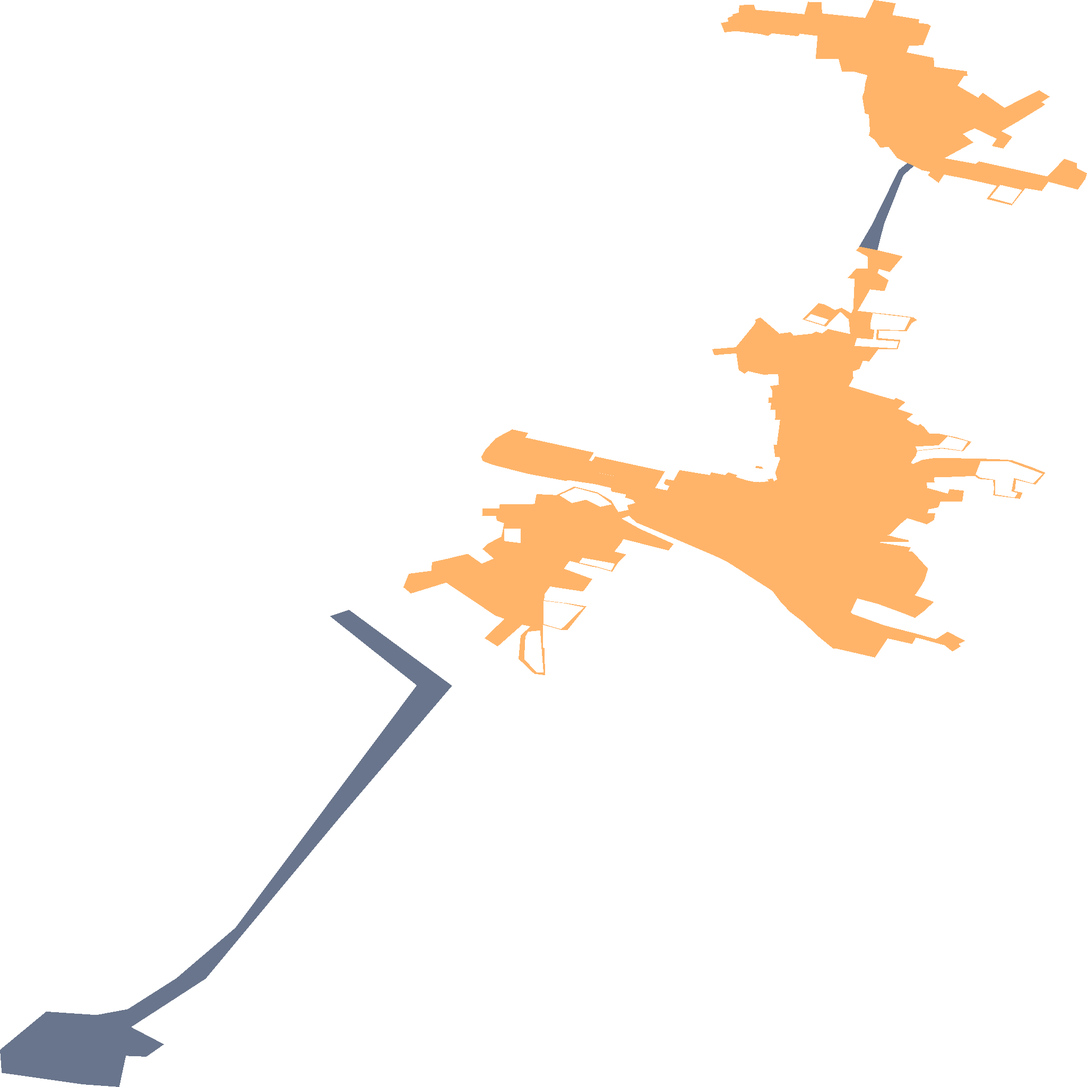
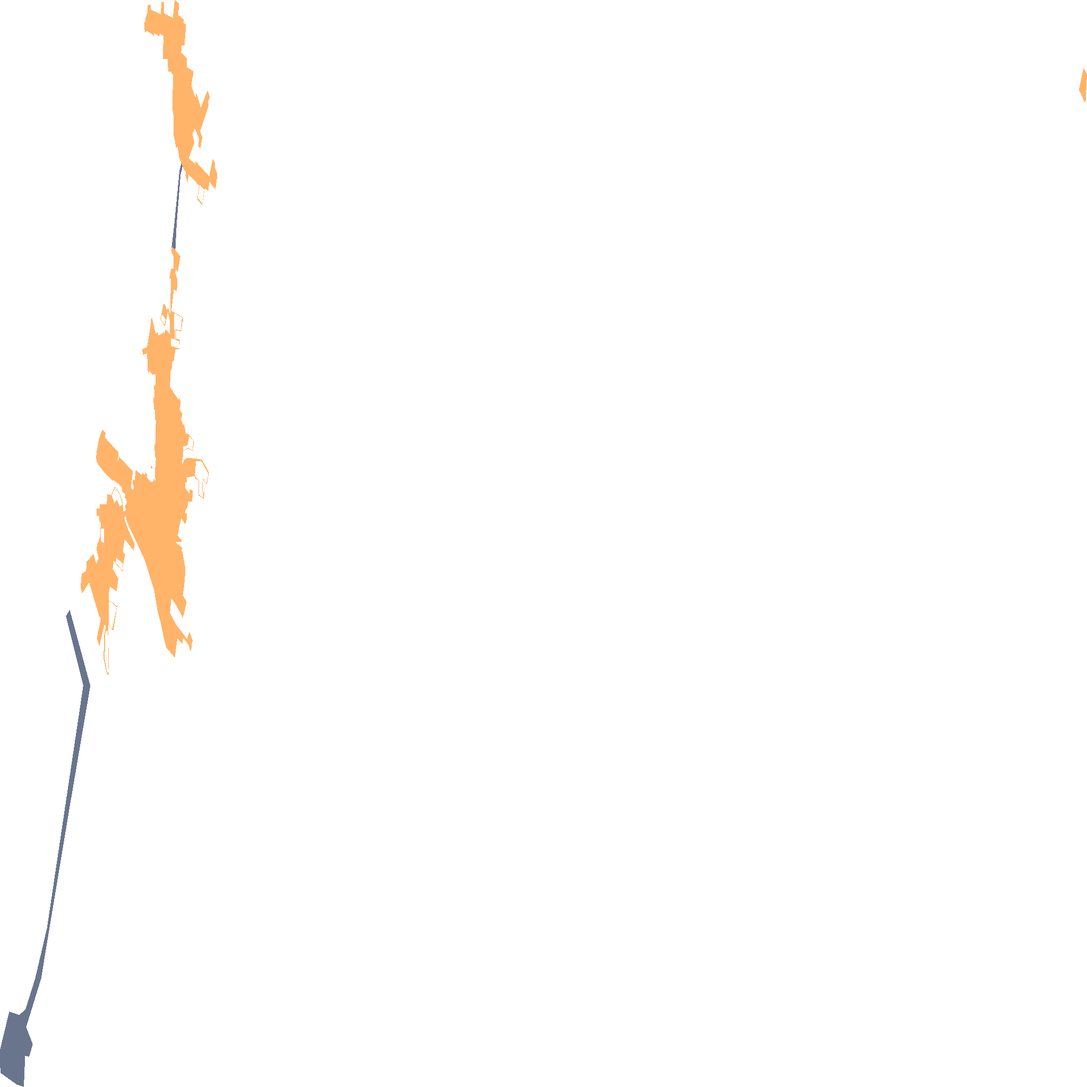
Karte sp_472

diff --git a/sp_472.html b/sp_472.html
@@ -132,7 +132,7 @@
         <div><span style="display:inline-block;width:20px; height:10px; background:#00143C; margin-right:5px;"></span>Ausbauphase 2: Interessenbekundung möglich</div>
     </div>
     <script>
-    const bounds = [[51.914985495, 11.398748835], [51.963987441, 11.443236615]];
+    const bounds = [[51.914985495, 11.398748835], [51.963987441, 11.621382979]];
     const map = L.map('map', {zoomControl: false});
       map.fitBounds(bounds);
         const maptiler = L.tileLayer('https://api.maptiler.com/maps/basic/{z}/{x}/{y}.png?key=UrGMdlREnrfymuiwCa7d',
@@ -141,7 +141,7 @@
         L.control.zoom({
             position: 'topleft'
         }).addTo(map);
-        const geoJsonData = {"type": "FeatureCollection", "features": [{"type": "Feature", "geometry": {"type": "MultiPolygon", "coordinates": [[[[11.42965127, 51.942900249], [11.429695394, 51.94298907], [11.429910986, 51.942953065], [11.429997529, 51.942857774], [11.429941825, 51.942847514], [11.42965127, 51.942900249]]]]}, "properties": {"dgn_phase": 1}}, {"type": "Feature", "geometry": {"type": "MultiPolygon", "coordinates": [[[[11.423100816, 51.943412611], [11.425961326, 51.942731767], [11.425559443, 51.941988716], [11.425251485, 51.94205569], [11.424488356, 51.942221656], [11.424559931, 51.942385061], [11.422724052, 51.942783168], [11.422970212, 51.943197381], [11.423022349, 51.943252811], [11.423100816, 51.943412611]]]]}, "properties": {"dgn_phase": 1}}, {"type": "Feature", "geometry": {"type": "MultiPolygon", "coordinates": [[[[11.438212507, 51.960790496], [11.438207301, 51.960565548], [11.437938208, 51.96012534], [11.438784526, 51.959584119], [11.4389672, 51.9598113], [11.4395261, 51.9593833], [11.439859, 51.9591283], [11.4412775, 51.9599188], [11.4417127, 51.9596259], [11.441374701, 51.9593822], [11.4415232, 51.95928], [11.4414147, 51.9591898], [11.440392895, 51.958499077], [11.439732406, 51.958075644], [11.440180616, 51.957815329], [11.440013758, 51.957580749], [11.439808863, 51.957290693], [11.439338914, 51.957408635], [11.43954545, 51.957728953], [11.438639677, 51.958206493], [11.438156063, 51.95794385], [11.43858395, 51.957567106], [11.437396503, 51.956855947], [11.438671559, 51.956600148], [11.438817606, 51.956709649], [11.441610879, 51.956032826], [11.44231256, 51.956827601], [11.442827243, 51.956630815], [11.442815018, 51.956406013], [11.443236615, 51.956172206], [11.443167341, 51.955920684], [11.442860891, 51.955441935], [11.44166093, 51.955793749], [11.441386246, 51.955379633], [11.440713408, 51.955501789], [11.440160122, 51.954729896], [11.439124903, 51.955015365], [11.439549599, 51.95561248], [11.4382686, 51.9559333], [11.4373842, 51.9561171], [11.4371629, 51.9557403], [11.4369442, 51.955927], [11.4367267, 51.9560863], [11.4368216, 51.9562398], [11.4364696, 51.9563188], [11.4361477, 51.9564994], [11.435885774, 51.956639312], [11.435470381, 51.9568612], [11.435119479, 51.95736618], [11.434774265, 51.957330044], [11.434548102, 51.957680961], [11.434306739, 51.957880713], [11.434352269, 51.958074531], [11.43430883, 51.958824171], [11.434150229, 51.958870731], [11.434037278, 51.959630464], [11.434118968, 51.959845174], [11.434160344, 51.960220853], [11.434250706, 51.960595517], [11.433664555, 51.960767776], [11.433208053, 51.960746919], [11.433073111, 51.961324853], [11.432131113, 51.961332628], [11.432212414, 51.962393094], [11.432008224, 51.962394712], [11.431486874, 51.962470404], [11.431410572, 51.962355125], [11.430338705, 51.962485464], [11.430185194, 51.962367451], [11.429846728, 51.962456671], [11.428907982, 51.962580343], [11.428945046, 51.962730094], [11.428871392, 51.962752712], [11.42893269, 51.962914558], [11.428743415, 51.963275016], [11.428724323, 51.963336779], [11.428980939, 51.963418042], [11.429006174, 51.963755103], [11.429609671, 51.963772942], [11.429674491, 51.963546549], [11.430566769, 51.963463206], [11.431667354, 51.963345255], [11.431816756, 51.963904806], [11.432376393, 51.963888912], [11.432390987, 51.963382237], [11.434159415, 51.963176883], [11.434518629, 51.963987441], [11.435171068, 51.963875425], [11.435407153, 51.96383489], [11.435273579, 51.963309641], [11.43636969, 51.963109508], [11.436340018, 51.962949986], [11.436709046, 51.962907722], [11.43684385, 51.962809715], [11.436530778, 51.961946273], [11.43595553, 51.961932213], [11.435854906, 51.961627009], [11.436962389, 51.961379027], [11.436989326, 51.960971638], [11.438212507, 51.960790496]], [[11.439687437, 51.955652457], [11.439261036, 51.955077945], [11.440164004, 51.95480228], [11.440582045, 51.955425744], [11.439687437, 51.955652457]]]]}, "properties": {"dgn_phase": 1}}, {"type": "Feature", "geometry": {"type": "MultiPolygon", "coordinates": [[[[11.413032971, 51.936497717], [11.417251482, 51.93307279], [11.412617035, 51.927086188], [11.407169732, 51.919871052], [11.404112991, 51.917685963], [11.405461187, 51.916909206], [11.404736501, 51.916351105], [11.403901213, 51.916390212], [11.40363018, 51.914985495], [11.402139968, 51.915104073], [11.398818254, 51.915623575], [11.398748835, 51.916660645], [11.400640327, 51.918384881], [11.402699007, 51.918232677], [11.403977947, 51.918493009], [11.405977235, 51.919895446], [11.408379181, 51.922159999], [11.415808803, 51.933091403], [11.412251117, 51.936210764], [11.413032971, 51.936497717]]]]}, "properties": {"dgn_phase": 2}}, {"type": "Feature", "geometry": {"type": "MultiPolygon", "coordinates": [[[[11.43571239, 51.94543221], [11.436036894, 51.945307554], [11.435881696, 51.945159707], [11.435559544, 51.945287261], [11.43571239, 51.94543221]]]]}, "properties": {"dgn_phase": 1}}, {"type": "Feature", "geometry": {"type": "MultiPolygon", "coordinates": [[[[11.434659392, 51.952711049], [11.435698316, 51.95243301], [11.435166044, 51.951723415], [11.434721799, 51.951862447], [11.434659134, 51.951675476], [11.435114526, 51.951354438], [11.434951387, 51.950864423], [11.434356564, 51.950941424], [11.433889682, 51.95005116], [11.433672931, 51.950072782], [11.433701135, 51.950864319], [11.433731343, 51.951422005], [11.433438547, 51.951447536], [11.433798613, 51.951888036], [11.434261084, 51.951891455], [11.434262954, 51.952410774], [11.434133944, 51.952490995], [11.43378912, 51.952697468], [11.433877092, 51.952803405], [11.433914208, 51.952873586], [11.434659392, 51.952711049]]]]}, "properties": {"dgn_phase": 1}}, {"type": "Feature", "geometry": {"type": "MultiPolygon", "coordinates": [[[[11.428743415, 51.963275016], [11.42893269, 51.962914558], [11.428871392, 51.962752712], [11.428945046, 51.962730094], [11.428907982, 51.962580343], [11.42887283, 51.962584974], [11.428400444, 51.962529802], [11.428254927, 51.962948291], [11.428549241, 51.96301417], [11.428534475, 51.963178397], [11.428743415, 51.963275016]]]]}, "properties": {"dgn_phase": 1}}, {"type": "Feature", "geometry": {"type": "MultiPolygon", "coordinates": [[[[11.4361477, 51.9564994], [11.435725969, 51.956092292], [11.434934915, 51.953904635], [11.434659392, 51.952711049], [11.433914208, 51.952873586], [11.434427278, 51.953843726], [11.435528184, 51.956320359], [11.435885774, 51.956639312], [11.4361477, 51.9564994]]]]}, "properties": {"dgn_phase": 2}}, {"type": "Feature", "geometry": {"type": "MultiPolygon", "coordinates": [[[[11.438331032, 51.960792308], [11.438341998, 51.960564145], [11.438207301, 51.960565548], [11.438212507, 51.960790496], [11.438331032, 51.960792308]]]]}, "properties": {"dgn_phase": 1}}, {"type": "Feature", "geometry": {"type": "MultiPolygon", "coordinates": [[[[11.43321146, 51.93633451], [11.433303429, 51.93641312], [11.434881533, 51.935795836], [11.437057437, 51.935143747], [11.437540274, 51.935465926], [11.438129712, 51.935108952], [11.437931142, 51.9349891], [11.438025202, 51.93484734], [11.437751385, 51.934660474], [11.43740232, 51.93492853], [11.436200453, 51.935288084], [11.436079222, 51.935032916], [11.435059201, 51.93526231], [11.434499026, 51.934411747], [11.432856126, 51.934793213], [11.431928075, 51.935772639], [11.432358656, 51.936298427], [11.433069326, 51.936017492], [11.43321146, 51.93633451]]]]}, "properties": {"dgn_phase": 1}}, {"type": "Feature", "geometry": {"type": "MultiPolygon", "coordinates": [[[[11.43655422, 51.942154815], [11.436521299, 51.941927229], [11.437377239, 51.941747479], [11.437612387, 51.941689496], [11.437706446, 51.941877943], [11.438129712, 51.941814161], [11.438059167, 51.941443062], [11.437198526, 51.941428566], [11.437080952, 51.941173435], [11.436714122, 51.94111545], [11.436495433, 51.940870463], [11.436925754, 51.940800881], [11.43693516, 51.940580537], [11.4366812, 51.940438472], [11.43571239, 51.940711004], [11.434903482, 51.939844116], [11.435641846, 51.939667257], [11.435670064, 51.939586075], [11.434748283, 51.939673055], [11.434611897, 51.939530988], [11.435900509, 51.939290341], [11.43567947, 51.938780052], [11.435157441, 51.93888153], [11.434941104, 51.938379934], [11.434212146, 51.938527804], [11.434085166, 51.938368336], [11.433680711, 51.938652479], [11.43297997, 51.93911638], [11.434024027, 51.939635364], [11.434419077, 51.939820921], [11.434602492, 51.940418178], [11.435938133, 51.942082335], [11.43655422, 51.942154815]]]]}, "properties": {"dgn_phase": 1}}, {"type": "Feature", "geometry": {"type": "MultiPolygon", "coordinates": [[[[11.434462707, 51.94989937], [11.434469864, 51.949871764], [11.434385409, 51.949493766], [11.434374485, 51.949148986], [11.434536107, 51.949126476], [11.434481267, 51.94868677], [11.4338218, 51.948749946], [11.433671213, 51.949570147], [11.433601882, 51.949709811], [11.433766004, 51.949836007], [11.433847844, 51.949973678], [11.434462707, 51.94989937]]]]}, "properties": {"dgn_phase": 1}}, {"type": "Feature", "geometry": {"type": "MultiPolygon", "coordinates": [[[[11.421520999, 51.9416681], [11.421510888, 51.941261598], [11.420630836, 51.941269253], [11.420707042, 51.941712077], [11.421103815, 51.94169097], [11.421520999, 51.9416681]]]]}, "properties": {"dgn_phase": 1}}, {"type": "Feature", "geometry": {"type": "MultiPolygon", "coordinates": [[[[11.420630836, 51.941269253], [11.421510888, 51.941261598], [11.421520999, 51.9416681], [11.422254799, 51.9420541], [11.423205199, 51.941787796], [11.423771594, 51.94141867], [11.42405281, 51.940903619], [11.424479726, 51.941006947], [11.424411976, 51.941209609], [11.424760197, 51.941312609], [11.42464096, 51.941452175], [11.424339696, 51.941558765], [11.424361131, 51.941699104], [11.423771855, 51.94182754], [11.423743296, 51.941995841], [11.423061482, 51.942171476], [11.422611686, 51.942241946], [11.421997271, 51.942345183], [11.421923803, 51.942305074], [11.420344744, 51.942628919], [11.419868684, 51.942763576], [11.418889383, 51.943043237], [11.418513429, 51.943197866], [11.41844046, 51.943387889], [11.418608077, 51.943705179], [11.419027754, 51.944215604], [11.41940895, 51.944452603], [11.41971508, 51.944629729], [11.420364894, 51.9444706], [11.420252772, 51.944262484], [11.423055514, 51.943585526], [11.422850539, 51.94321882], [11.422970212, 51.943197381], [11.422724052, 51.942783168], [11.423747029, 51.942558608], [11.424559931, 51.942385061], [11.424488356, 51.942221656], [11.425251485, 51.94205569], [11.425559443, 51.941988716], [11.425582758, 51.941983646], [11.425923263, 51.941906848], [11.426060574, 51.941881981], [11.426148628, 51.942082155], [11.425977023, 51.942132212], [11.425922286, 51.942219034], [11.426002623, 51.942386314], [11.426320313, 51.942327125], [11.426555524, 51.942794808], [11.427805115, 51.942569491], [11.427863295, 51.942693157], [11.428423058, 51.942568369], [11.42855758, 51.94269352], [11.428928913, 51.942564049], [11.428863018, 51.94248094], [11.429311659, 51.942334265], [11.429520276, 51.942281909], [11.429629375, 51.942266497], [11.429854237, 51.942248999], [11.430071419, 51.94227267], [11.430201017, 51.942288356], [11.430161985, 51.942372407], [11.43037271, 51.942423143], [11.430427102, 51.94229348], [11.430554137, 51.942371653], [11.4304844, 51.942657103], [11.430494965, 51.942742577], [11.43058342, 51.943012241], [11.430599809, 51.943083884], [11.430679053, 51.943289656], [11.430648598, 51.943385771], [11.430473687, 51.943374694], [11.430459891, 51.943491505], [11.43040847, 51.943926922], [11.430539456, 51.943931562], [11.430666902, 51.944969483], [11.43067615, 51.945067227], [11.430471817, 51.945061654], [11.430488305, 51.945513035], [11.430274672, 51.945518673], [11.430317125, 51.945827513], [11.43019009, 51.945822791], [11.430207671, 51.946074609], [11.430360164, 51.946073909], [11.43036482, 51.946343133], [11.430262883, 51.946582729], [11.430628565, 51.946641282], [11.430599152, 51.947122992], [11.430136644, 51.947105612], [11.429936656, 51.947107294], [11.429370415, 51.947259766], [11.429225356, 51.947141567], [11.428982644, 51.947305721], [11.42888458, 51.948056942], [11.428355374, 51.948015225], [11.427984671, 51.947973908], [11.427892549, 51.9482488], [11.42886192, 51.948334075], [11.429109642, 51.948665611], [11.42961816, 51.949350447], [11.429680445, 51.949476476], [11.429645629, 51.949565336], [11.429869652, 51.949678231], [11.43064619, 51.948944824], [11.431113476, 51.949013519], [11.431224135, 51.948861883], [11.431726245, 51.948915165], [11.432005665, 51.948953461], [11.432133253, 51.949041414], [11.432397316, 51.948960669], [11.432640555, 51.949153957], [11.43354366, 51.948929622], [11.433484172, 51.949587013], [11.433134774, 51.949939457], [11.43254757, 51.949266056], [11.431586687, 51.949594408], [11.43225595, 51.950319983], [11.432506204, 51.950258498], [11.432920803, 51.950012436], [11.43319167, 51.950112114], [11.433590035, 51.949859041], [11.433672931, 51.950072782], [11.433889682, 51.95005116], [11.433860376, 51.949996888], [11.433847844, 51.949973678], [11.433766004, 51.949836007], [11.433601882, 51.949709811], [11.433671213, 51.949570147], [11.4338218, 51.948749946], [11.433718335, 51.948394849], [11.435434916, 51.948278898], [11.435536029, 51.948599211], [11.434611897, 51.948667332], [11.434630709, 51.949132579], [11.435764123, 51.949100694], [11.436013379, 51.94966739], [11.434469864, 51.949871764], [11.434462707, 51.94989937], [11.435424384, 51.949783142], [11.436145726, 51.949677621], [11.436272013, 51.949558709], [11.436058521, 51.949421124], [11.435858624, 51.949059231], [11.434725339, 51.949093703], [11.434690824, 51.948749198], [11.435601333, 51.948661802], [11.435483286, 51.94823823], [11.434699544, 51.948252], [11.434320668, 51.947694267], [11.434065015, 51.947728935], [11.433930376, 51.947364467], [11.433654507, 51.947245306], [11.433658034, 51.947090986], [11.433674099, 51.946948649], [11.433482152, 51.946573284], [11.434210994, 51.946327901], [11.434561136, 51.946209257], [11.435334364, 51.945965559], [11.43542211, 51.946049436], [11.435800128, 51.945860433], [11.435535701, 51.945586793], [11.435500008, 51.945549582], [11.436113476, 51.945318978], [11.435852951, 51.94508076], [11.436081908, 51.944919324], [11.436317405, 51.944805497], [11.436416293, 51.944875676], [11.436574744, 51.944729166], [11.436783148, 51.944444513], [11.437204267, 51.944429671], [11.437902749, 51.944269523], [11.438505907, 51.944068501], [11.438164197, 51.943648342], [11.437318833, 51.943766239], [11.43687904, 51.943728829], [11.436286951, 51.943659068], [11.436231888, 51.943447201], [11.43606166, 51.943193647], [11.436035654, 51.943115838], [11.436116549, 51.943068868], [11.43648306, 51.943252712], [11.436998239, 51.943342579], [11.438070597, 51.943327245], [11.43936117, 51.943297169], [11.439435923, 51.943295427], [11.440146266, 51.94324704], [11.44098873, 51.942921073], [11.441534798, 51.942676996], [11.441129111, 51.942141416], [11.440334482, 51.942363103], [11.440293894, 51.941943896], [11.440244523, 51.941855402], [11.440599147, 51.941779186], [11.440494876, 51.941500399], [11.439393808, 51.941659574], [11.439437392, 51.941969919], [11.439386473, 51.942345575], [11.438801084, 51.942399026], [11.438647763, 51.942530283], [11.437443837, 51.942478104], [11.43697291, 51.942464446], [11.436996215, 51.942236725], [11.43666812, 51.942226993], [11.436701959, 51.941988036], [11.437530648, 51.941736747], [11.437619744, 51.941941482], [11.438197107, 51.941863415], [11.43813315, 51.941382718], [11.437712246, 51.941387306], [11.437241255, 51.941372274], [11.437151554, 51.941115217], [11.436757041, 51.941031115], [11.436705205, 51.940855906], [11.437023195, 51.940843811], [11.436975998, 51.94054869], [11.43668236, 51.940352321], [11.435886194, 51.940627721], [11.435548835, 51.940323456], [11.435201663, 51.939920234], [11.435056, 51.9398451], [11.435156501, 51.9398406], [11.4354737, 51.9397432], [11.4359028, 51.9396457], [11.4359415, 51.9396186], [11.435936299, 51.9395638], [11.435828499, 51.9395496], [11.4355999, 51.9395467], [11.435403951, 51.939557096], [11.434799181, 51.939556778], [11.434774519, 51.939521421], [11.436024218, 51.939309632], [11.435939002, 51.939135114], [11.43610281, 51.939115196], [11.436733959, 51.938344664], [11.43657549, 51.937805327], [11.436456132, 51.937576428], [11.436192504, 51.937152198], [11.436974059, 51.936855063], [11.43652863, 51.936406367], [11.436195351, 51.936135761], [11.435661901, 51.936365092], [11.43469935, 51.936755482], [11.433833199, 51.937013035], [11.433562729, 51.936379606], [11.433656633, 51.936303295], [11.43493704, 51.935796159], [11.436345563, 51.935392402], [11.437051145, 51.935173964], [11.437532849, 51.935511041], [11.438250087, 51.935096791], [11.437984467, 51.934964574], [11.438067221, 51.934847173], [11.437729469, 51.934617292], [11.437410413, 51.934896589], [11.436494319, 51.935177232], [11.436228423, 51.935245401], [11.436085804, 51.934957074], [11.43507889, 51.935206534], [11.434559998, 51.934346878], [11.433017216, 51.934739618], [11.432839922, 51.934757056], [11.432240909, 51.935298287], [11.431604217, 51.935966996], [11.431088247, 51.936396329], [11.430702689, 51.936847754], [11.430355711, 51.93735347], [11.429222504, 51.938153614], [11.428965384, 51.938343467], [11.428544533, 51.938637235], [11.428168334, 51.938850203], [11.426851787, 51.939475071], [11.425743381, 51.939993719], [11.424795505, 51.940431926], [11.424486716, 51.94073852], [11.424185637, 51.940609756], [11.424944777, 51.940142392], [11.426320871, 51.939463984], [11.426108968, 51.939170878], [11.424256268, 51.93968833], [11.4241864, 51.9395321], [11.423894301, 51.9391261], [11.4243714, 51.9389954], [11.4240517, 51.9386344], [11.4238048, 51.9382109], [11.4232193, 51.9384007], [11.4229986, 51.9384388], [11.422062, 51.9386998], [11.4219376, 51.9385277], [11.421831152, 51.938350049], [11.422991344, 51.937882705], [11.422614999, 51.9373213], [11.421263499, 51.9375477], [11.421029299, 51.9371964], [11.4210229, 51.9369213], [11.421960201, 51.936795], [11.4227501, 51.9366532], [11.4219748, 51.9355891], [11.421754399, 51.9355809], [11.4209748, 51.9358202], [11.420976, 51.9347931], [11.421035399, 51.9347634], [11.4210311, 51.9344231], [11.421068976, 51.93354828], [11.420617796, 51.933609896], [11.419972494, 51.934286983], [11.420055182, 51.935326447], [11.420452332, 51.935750719], [11.420122199, 51.93582637], [11.419115762, 51.934844463], [11.418579066, 51.935221832], [11.419396635, 51.936089188], [11.419025687, 51.936234535], [11.417011434, 51.937724745], [11.415568519, 51.937233156], [11.415258785, 51.937513731], [11.415477406, 51.938121739], [11.416411578, 51.938256805], [11.416424568, 51.938645828], [11.417163145, 51.938826526], [11.417890648, 51.939022138], [11.418464713, 51.938574533], [11.41895665, 51.938809256], [11.418492721, 51.939242359], [11.418707024, 51.939470548], [11.419267401, 51.9397976], [11.4193004, 51.9399353], [11.4193778, 51.9404001], [11.419072899, 51.9405232], [11.419063799, 51.9407387], [11.418483001, 51.9407343], [11.418504299, 51.9410545], [11.419191199, 51.9410598], [11.4192018, 51.941261], [11.420630836, 51.941269253]], [[11.431707819, 51.949593474], [11.432474401, 51.949331142], [11.43266252, 51.94957898], [11.431940615, 51.949831166], [11.431707819, 51.949593474]], [[11.435881696, 51.945159707], [11.436036894, 51.945307554], [11.43571239, 51.94543221], [11.435559544, 51.945287261], [11.435881696, 51.945159707]], [[11.43622031, 51.943858047], [11.436281448, 51.943679754], [11.437318451, 51.943801515], [11.438117955, 51.943673955], [11.438369564, 51.944088521], [11.437539491, 51.944323343], [11.437160902, 51.943911679], [11.43622031, 51.943858047]], [[11.438679959, 51.942607084], [11.438858671, 51.942453429], [11.439488868, 51.942354858], [11.439470056, 51.941699643], [11.44026956, 51.941554683], [11.440401242, 51.941757627], [11.440147283, 51.941844602], [11.440250748, 51.942436033], [11.441022034, 51.942192505], [11.441431191, 51.942624479], [11.440043818, 51.94318401], [11.438886889, 51.943201404], [11.438679959, 51.942607084]], [[11.434602492, 51.940418178], [11.434419077, 51.939820921], [11.434024027, 51.939635364], [11.43297997, 51.93911638], [11.433680711, 51.938652479], [11.434085166, 51.938368336], [11.434212146, 51.938527804], [11.434941104, 51.938379934], [11.435157441, 51.93888153], [11.43567947, 51.938780052], [11.435900509, 51.939290341], [11.434611897, 51.939530988], [11.434748283, 51.939673055], [11.435670064, 51.939586075], [11.435641846, 51.939667257], [11.434903482, 51.939844116], [11.43571239, 51.940711004], [11.4366812, 51.940438472], [11.43693516, 51.940580537], [11.436925754, 51.940800881], [11.436495433, 51.940870463], [11.436714122, 51.94111545], [11.437080952, 51.941173435], [11.437198526, 51.941428566], [11.438059167, 51.941443062], [11.438129712, 51.941814161], [11.437706446, 51.941877943], [11.437612387, 51.941689496], [11.437377239, 51.941747479], [11.436521299, 51.941927229], [11.43655422, 51.942154815], [11.435938133, 51.942082335], [11.434602492, 51.940418178]], [[11.42164113, 51.941663402], [11.422153753, 51.941306799], [11.422741623, 51.941460458], [11.423310682, 51.941138644], [11.423804493, 51.941251713], [11.423216623, 51.941730085], [11.422304248, 51.941999709], [11.42164113, 51.941663402]], [[11.419388412, 51.94016159], [11.41938371, 51.939599122], [11.420060936, 51.939503443], [11.420060935, 51.94016159], [11.419388412, 51.94016159]], [[11.422440634, 51.938627833], [11.423160186, 51.938448071], [11.423762166, 51.938261058], [11.423919715, 51.938578544], [11.42259348, 51.938842388], [11.422440634, 51.938627833]], [[11.420994473, 51.936902658], [11.420994474, 51.935851572], [11.421716377, 51.935621055], [11.422647564, 51.936612705], [11.421855115, 51.936789577], [11.420994473, 51.936902658]], [[11.420361925, 51.935513769], [11.420249053, 51.935278901], [11.420202024, 51.934266924], [11.420714647, 51.933678285], [11.420992122, 51.933666686], [11.420855735, 51.935565962], [11.420361925, 51.935513769]], [[11.43321146, 51.93633451], [11.433069326, 51.936017492], [11.432358656, 51.936298427], [11.431928075, 51.935772639], [11.432856126, 51.934793213], [11.434499026, 51.934411747], [11.435059201, 51.93526231], [11.436079222, 51.935032916], [11.436200453, 51.935288084], [11.43740232, 51.93492853], [11.437751385, 51.934660474], [11.438025202, 51.93484734], [11.437931142, 51.9349891], [11.438129712, 51.935108952], [11.437540274, 51.935465926], [11.437057437, 51.935143747], [11.434881533, 51.935795836], [11.433303429, 51.93641312], [11.43321146, 51.93633451]]]]}, "properties": {"dgn_phase": 1}}]};
+        const geoJsonData = {"type": "FeatureCollection", "features": [{"type": "Feature", "geometry": {"type": "MultiPolygon", "coordinates": [[[[11.619711222, 51.959935241], [11.621081413, 51.959315249], [11.621382979, 51.960643833], [11.620677582, 51.960926092], [11.619711222, 51.959935241]]]]}, "properties": {"dgn_phase": 1}}, {"type": "Feature", "geometry": {"type": "MultiPolygon", "coordinates": [[[[11.42965127, 51.942900249], [11.429695394, 51.94298907], [11.429910986, 51.942953065], [11.429997529, 51.942857774], [11.429941825, 51.942847514], [11.42965127, 51.942900249]]]]}, "properties": {"dgn_phase": 1}}, {"type": "Feature", "geometry": {"type": "MultiPolygon", "coordinates": [[[[11.423100816, 51.943412611], [11.425961326, 51.942731767], [11.425559443, 51.941988716], [11.425251485, 51.94205569], [11.424488356, 51.942221656], [11.424559931, 51.942385061], [11.422724052, 51.942783168], [11.422970212, 51.943197381], [11.423022349, 51.943252811], [11.423100816, 51.943412611]]]]}, "properties": {"dgn_phase": 1}}, {"type": "Feature", "geometry": {"type": "MultiPolygon", "coordinates": [[[[11.438212507, 51.960790496], [11.438207301, 51.960565548], [11.437938208, 51.96012534], [11.438784526, 51.959584119], [11.4389672, 51.9598113], [11.4395261, 51.9593833], [11.439859, 51.9591283], [11.4412775, 51.9599188], [11.4417127, 51.9596259], [11.441374701, 51.9593822], [11.4415232, 51.95928], [11.4414147, 51.9591898], [11.440392895, 51.958499077], [11.439732406, 51.958075644], [11.440180616, 51.957815329], [11.440013758, 51.957580749], [11.439808863, 51.957290693], [11.439338914, 51.957408635], [11.43954545, 51.957728953], [11.438639677, 51.958206493], [11.438156063, 51.95794385], [11.43858395, 51.957567106], [11.437396503, 51.956855947], [11.438671559, 51.956600148], [11.438817606, 51.956709649], [11.441610879, 51.956032826], [11.44231256, 51.956827601], [11.442827243, 51.956630815], [11.442815018, 51.956406013], [11.443236615, 51.956172206], [11.443167341, 51.955920684], [11.442860891, 51.955441935], [11.44166093, 51.955793749], [11.441386246, 51.955379633], [11.440713408, 51.955501789], [11.440160122, 51.954729896], [11.439124903, 51.955015365], [11.439549599, 51.95561248], [11.4382686, 51.9559333], [11.4373842, 51.9561171], [11.4371629, 51.9557403], [11.4369442, 51.955927], [11.4367267, 51.9560863], [11.4368216, 51.9562398], [11.4364696, 51.9563188], [11.4361477, 51.9564994], [11.435885774, 51.956639312], [11.435470381, 51.9568612], [11.435119479, 51.95736618], [11.434774265, 51.957330044], [11.434548102, 51.957680961], [11.434306739, 51.957880713], [11.434352269, 51.958074531], [11.43430883, 51.958824171], [11.434150229, 51.958870731], [11.434037278, 51.959630464], [11.434118968, 51.959845174], [11.434160344, 51.960220853], [11.434250706, 51.960595517], [11.433664555, 51.960767776], [11.433208053, 51.960746919], [11.433073111, 51.961324853], [11.432131113, 51.961332628], [11.432212414, 51.962393094], [11.432008224, 51.962394712], [11.431486874, 51.962470404], [11.431410572, 51.962355125], [11.430338705, 51.962485464], [11.430185194, 51.962367451], [11.429846728, 51.962456671], [11.428907982, 51.962580343], [11.428945046, 51.962730094], [11.428871392, 51.962752712], [11.42893269, 51.962914558], [11.428743415, 51.963275016], [11.428724323, 51.963336779], [11.428980939, 51.963418042], [11.429006174, 51.963755103], [11.429609671, 51.963772942], [11.429674491, 51.963546549], [11.430566769, 51.963463206], [11.431667354, 51.963345255], [11.431816756, 51.963904806], [11.432376393, 51.963888912], [11.432390987, 51.963382237], [11.434159415, 51.963176883], [11.434518629, 51.963987441], [11.435171068, 51.963875425], [11.435407153, 51.96383489], [11.435273579, 51.963309641], [11.43636969, 51.963109508], [11.436340018, 51.962949986], [11.436709046, 51.962907722], [11.43684385, 51.962809715], [11.436530778, 51.961946273], [11.43595553, 51.961932213], [11.435854906, 51.961627009], [11.436962389, 51.961379027], [11.436989326, 51.960971638], [11.438212507, 51.960790496]], [[11.439687437, 51.955652457], [11.439261036, 51.955077945], [11.440164004, 51.95480228], [11.440582045, 51.955425744], [11.439687437, 51.955652457]]]]}, "properties": {"dgn_phase": 1}}, {"type": "Feature", "geometry": {"type": "MultiPolygon", "coordinates": [[[[11.413032971, 51.936497717], [11.417251482, 51.93307279], [11.412617035, 51.927086188], [11.407169732, 51.919871052], [11.404112991, 51.917685963], [11.405461187, 51.916909206], [11.404736501, 51.916351105], [11.403901213, 51.916390212], [11.40363018, 51.914985495], [11.402139968, 51.915104073], [11.398818254, 51.915623575], [11.398748835, 51.916660645], [11.400640327, 51.918384881], [11.402699007, 51.918232677], [11.403977947, 51.918493009], [11.405977235, 51.919895446], [11.408379181, 51.922159999], [11.415808803, 51.933091403], [11.412251117, 51.936210764], [11.413032971, 51.936497717]]]]}, "properties": {"dgn_phase": 2}}, {"type": "Feature", "geometry": {"type": "MultiPolygon", "coordinates": [[[[11.43571239, 51.94543221], [11.436036894, 51.945307554], [11.435881696, 51.945159707], [11.435559544, 51.945287261], [11.43571239, 51.94543221]]]]}, "properties": {"dgn_phase": 1}}, {"type": "Feature", "geometry": {"type": "MultiPolygon", "coordinates": [[[[11.434659392, 51.952711049], [11.435698316, 51.95243301], [11.435166044, 51.951723415], [11.434721799, 51.951862447], [11.434659134, 51.951675476], [11.435114526, 51.951354438], [11.434951387, 51.950864423], [11.434356564, 51.950941424], [11.433889682, 51.95005116], [11.433672931, 51.950072782], [11.433701135, 51.950864319], [11.433731343, 51.951422005], [11.433438547, 51.951447536], [11.433798613, 51.951888036], [11.434261084, 51.951891455], [11.434262954, 51.952410774], [11.434133944, 51.952490995], [11.43378912, 51.952697468], [11.433877092, 51.952803405], [11.433914208, 51.952873586], [11.434659392, 51.952711049]]]]}, "properties": {"dgn_phase": 1}}, {"type": "Feature", "geometry": {"type": "MultiPolygon", "coordinates": [[[[11.428743415, 51.963275016], [11.42893269, 51.962914558], [11.428871392, 51.962752712], [11.428945046, 51.962730094], [11.428907982, 51.962580343], [11.42887283, 51.962584974], [11.428400444, 51.962529802], [11.428254927, 51.962948291], [11.428549241, 51.96301417], [11.428534475, 51.963178397], [11.428743415, 51.963275016]]]]}, "properties": {"dgn_phase": 1}}, {"type": "Feature", "geometry": {"type": "MultiPolygon", "coordinates": [[[[11.4361477, 51.9564994], [11.435725969, 51.956092292], [11.434934915, 51.953904635], [11.434659392, 51.952711049], [11.433914208, 51.952873586], [11.434427278, 51.953843726], [11.435528184, 51.956320359], [11.435885774, 51.956639312], [11.4361477, 51.9564994]]]]}, "properties": {"dgn_phase": 2}}, {"type": "Feature", "geometry": {"type": "MultiPolygon", "coordinates": [[[[11.438331032, 51.960792308], [11.438341998, 51.960564145], [11.438207301, 51.960565548], [11.438212507, 51.960790496], [11.438331032, 51.960792308]]]]}, "properties": {"dgn_phase": 1}}, {"type": "Feature", "geometry": {"type": "MultiPolygon", "coordinates": [[[[11.43321146, 51.93633451], [11.433303429, 51.93641312], [11.434881533, 51.935795836], [11.437057437, 51.935143747], [11.437540274, 51.935465926], [11.438129712, 51.935108952], [11.437931142, 51.9349891], [11.438025202, 51.93484734], [11.437751385, 51.934660474], [11.43740232, 51.93492853], [11.436200453, 51.935288084], [11.436079222, 51.935032916], [11.435059201, 51.93526231], [11.434499026, 51.934411747], [11.432856126, 51.934793213], [11.431928075, 51.935772639], [11.432358656, 51.936298427], [11.433069326, 51.936017492], [11.43321146, 51.93633451]]]]}, "properties": {"dgn_phase": 1}}, {"type": "Feature", "geometry": {"type": "MultiPolygon", "coordinates": [[[[11.43655422, 51.942154815], [11.436521299, 51.941927229], [11.437377239, 51.941747479], [11.437612387, 51.941689496], [11.437706446, 51.941877943], [11.438129712, 51.941814161], [11.438059167, 51.941443062], [11.437198526, 51.941428566], [11.437080952, 51.941173435], [11.436714122, 51.94111545], [11.436495433, 51.940870463], [11.436925754, 51.940800881], [11.43693516, 51.940580537], [11.4366812, 51.940438472], [11.43571239, 51.940711004], [11.434903482, 51.939844116], [11.435641846, 51.939667257], [11.435670064, 51.939586075], [11.434748283, 51.939673055], [11.434611897, 51.939530988], [11.435900509, 51.939290341], [11.43567947, 51.938780052], [11.435157441, 51.93888153], [11.434941104, 51.938379934], [11.434212146, 51.938527804], [11.434085166, 51.938368336], [11.433680711, 51.938652479], [11.43297997, 51.93911638], [11.434024027, 51.939635364], [11.434419077, 51.939820921], [11.434602492, 51.940418178], [11.435938133, 51.942082335], [11.43655422, 51.942154815]]]]}, "properties": {"dgn_phase": 1}}, {"type": "Feature", "geometry": {"type": "MultiPolygon", "coordinates": [[[[11.434462707, 51.94989937], [11.434469864, 51.949871764], [11.434385409, 51.949493766], [11.434374485, 51.949148986], [11.434536107, 51.949126476], [11.434481267, 51.94868677], [11.4338218, 51.948749946], [11.433671213, 51.949570147], [11.433601882, 51.949709811], [11.433766004, 51.949836007], [11.433847844, 51.949973678], [11.434462707, 51.94989937]]]]}, "properties": {"dgn_phase": 1}}, {"type": "Feature", "geometry": {"type": "MultiPolygon", "coordinates": [[[[11.421520999, 51.9416681], [11.421510888, 51.941261598], [11.420630836, 51.941269253], [11.420707042, 51.941712077], [11.421103815, 51.94169097], [11.421520999, 51.9416681]]]]}, "properties": {"dgn_phase": 1}}, {"type": "Feature", "geometry": {"type": "MultiPolygon", "coordinates": [[[[11.420630836, 51.941269253], [11.421510888, 51.941261598], [11.421520999, 51.9416681], [11.422254799, 51.9420541], [11.423205199, 51.941787796], [11.423771594, 51.94141867], [11.42405281, 51.940903619], [11.424479726, 51.941006947], [11.424411976, 51.941209609], [11.424760197, 51.941312609], [11.42464096, 51.941452175], [11.424339696, 51.941558765], [11.424361131, 51.941699104], [11.423771855, 51.94182754], [11.423743296, 51.941995841], [11.423061482, 51.942171476], [11.422611686, 51.942241946], [11.421997271, 51.942345183], [11.421923803, 51.942305074], [11.420344744, 51.942628919], [11.419868684, 51.942763576], [11.418889383, 51.943043237], [11.418513429, 51.943197866], [11.41844046, 51.943387889], [11.418608077, 51.943705179], [11.419027754, 51.944215604], [11.41940895, 51.944452603], [11.41971508, 51.944629729], [11.420364894, 51.9444706], [11.420252772, 51.944262484], [11.423055514, 51.943585526], [11.422850539, 51.94321882], [11.422970212, 51.943197381], [11.422724052, 51.942783168], [11.423747029, 51.942558608], [11.424559931, 51.942385061], [11.424488356, 51.942221656], [11.425251485, 51.94205569], [11.425559443, 51.941988716], [11.425582758, 51.941983646], [11.425923263, 51.941906848], [11.426060574, 51.941881981], [11.426148628, 51.942082155], [11.425977023, 51.942132212], [11.425922286, 51.942219034], [11.426002623, 51.942386314], [11.426320313, 51.942327125], [11.426555524, 51.942794808], [11.427805115, 51.942569491], [11.427863295, 51.942693157], [11.428423058, 51.942568369], [11.42855758, 51.94269352], [11.428928913, 51.942564049], [11.428863018, 51.94248094], [11.429311659, 51.942334265], [11.429520276, 51.942281909], [11.429629375, 51.942266497], [11.429854237, 51.942248999], [11.430071419, 51.94227267], [11.430201017, 51.942288356], [11.430161985, 51.942372407], [11.43037271, 51.942423143], [11.430427102, 51.94229348], [11.430554137, 51.942371653], [11.4304844, 51.942657103], [11.430494965, 51.942742577], [11.43058342, 51.943012241], [11.430599809, 51.943083884], [11.430679053, 51.943289656], [11.430648598, 51.943385771], [11.430473687, 51.943374694], [11.430459891, 51.943491505], [11.43040847, 51.943926922], [11.430539456, 51.943931562], [11.430666902, 51.944969483], [11.43067615, 51.945067227], [11.430471817, 51.945061654], [11.430488305, 51.945513035], [11.430274672, 51.945518673], [11.430317125, 51.945827513], [11.43019009, 51.945822791], [11.430207671, 51.946074609], [11.430360164, 51.946073909], [11.43036482, 51.946343133], [11.430262883, 51.946582729], [11.430628565, 51.946641282], [11.430599152, 51.947122992], [11.430136644, 51.947105612], [11.429936656, 51.947107294], [11.429370415, 51.947259766], [11.429225356, 51.947141567], [11.428982644, 51.947305721], [11.42888458, 51.948056942], [11.428355374, 51.948015225], [11.427984671, 51.947973908], [11.427892549, 51.9482488], [11.42886192, 51.948334075], [11.429109642, 51.948665611], [11.42961816, 51.949350447], [11.429680445, 51.949476476], [11.429645629, 51.949565336], [11.429869652, 51.949678231], [11.43064619, 51.948944824], [11.431113476, 51.949013519], [11.431224135, 51.948861883], [11.431726245, 51.948915165], [11.432005665, 51.948953461], [11.432133253, 51.949041414], [11.432397316, 51.948960669], [11.432640555, 51.949153957], [11.43354366, 51.948929622], [11.433484172, 51.949587013], [11.433134774, 51.949939457], [11.43254757, 51.949266056], [11.431586687, 51.949594408], [11.43225595, 51.950319983], [11.432506204, 51.950258498], [11.432920803, 51.950012436], [11.43319167, 51.950112114], [11.433590035, 51.949859041], [11.433672931, 51.950072782], [11.433889682, 51.95005116], [11.433860376, 51.949996888], [11.433847844, 51.949973678], [11.433766004, 51.949836007], [11.433601882, 51.949709811], [11.433671213, 51.949570147], [11.4338218, 51.948749946], [11.433718335, 51.948394849], [11.435434916, 51.948278898], [11.435536029, 51.948599211], [11.434611897, 51.948667332], [11.434630709, 51.949132579], [11.435764123, 51.949100694], [11.436013379, 51.94966739], [11.434469864, 51.949871764], [11.434462707, 51.94989937], [11.435424384, 51.949783142], [11.436145726, 51.949677621], [11.436272013, 51.949558709], [11.436058521, 51.949421124], [11.435858624, 51.949059231], [11.434725339, 51.949093703], [11.434690824, 51.948749198], [11.435601333, 51.948661802], [11.435483286, 51.94823823], [11.434699544, 51.948252], [11.434320668, 51.947694267], [11.434065015, 51.947728935], [11.433930376, 51.947364467], [11.433654507, 51.947245306], [11.433658034, 51.947090986], [11.433674099, 51.946948649], [11.433482152, 51.946573284], [11.434210994, 51.946327901], [11.434561136, 51.946209257], [11.435334364, 51.945965559], [11.43542211, 51.946049436], [11.435800128, 51.945860433], [11.435535701, 51.945586793], [11.435500008, 51.945549582], [11.436113476, 51.945318978], [11.435852951, 51.94508076], [11.436081908, 51.944919324], [11.436317405, 51.944805497], [11.436416293, 51.944875676], [11.436574744, 51.944729166], [11.436783148, 51.944444513], [11.437204267, 51.944429671], [11.437902749, 51.944269523], [11.438505907, 51.944068501], [11.438164197, 51.943648342], [11.437318833, 51.943766239], [11.43687904, 51.943728829], [11.436286951, 51.943659068], [11.436231888, 51.943447201], [11.43606166, 51.943193647], [11.436035654, 51.943115838], [11.436116549, 51.943068868], [11.43648306, 51.943252712], [11.436998239, 51.943342579], [11.438070597, 51.943327245], [11.43936117, 51.943297169], [11.439435923, 51.943295427], [11.440146266, 51.94324704], [11.44098873, 51.942921073], [11.441534798, 51.942676996], [11.441129111, 51.942141416], [11.440334482, 51.942363103], [11.440293894, 51.941943896], [11.440244523, 51.941855402], [11.440599147, 51.941779186], [11.440494876, 51.941500399], [11.439393808, 51.941659574], [11.439437392, 51.941969919], [11.439386473, 51.942345575], [11.438801084, 51.942399026], [11.438647763, 51.942530283], [11.437443837, 51.942478104], [11.43697291, 51.942464446], [11.436996215, 51.942236725], [11.43666812, 51.942226993], [11.436701959, 51.941988036], [11.437530648, 51.941736747], [11.437619744, 51.941941482], [11.438197107, 51.941863415], [11.43813315, 51.941382718], [11.437712246, 51.941387306], [11.437241255, 51.941372274], [11.437151554, 51.941115217], [11.436757041, 51.941031115], [11.436705205, 51.940855906], [11.437023195, 51.940843811], [11.436975998, 51.94054869], [11.43668236, 51.940352321], [11.435886194, 51.940627721], [11.435548835, 51.940323456], [11.435201663, 51.939920234], [11.435056, 51.9398451], [11.435156501, 51.9398406], [11.4354737, 51.9397432], [11.4359028, 51.9396457], [11.4359415, 51.9396186], [11.435936299, 51.9395638], [11.435828499, 51.9395496], [11.4355999, 51.9395467], [11.435403951, 51.939557096], [11.434799181, 51.939556778], [11.434774519, 51.939521421], [11.436024218, 51.939309632], [11.435939002, 51.939135114], [11.43610281, 51.939115196], [11.436733959, 51.938344664], [11.43657549, 51.937805327], [11.436456132, 51.937576428], [11.436192504, 51.937152198], [11.436974059, 51.936855063], [11.43652863, 51.936406367], [11.436195351, 51.936135761], [11.435661901, 51.936365092], [11.43469935, 51.936755482], [11.433833199, 51.937013035], [11.433562729, 51.936379606], [11.433656633, 51.936303295], [11.43493704, 51.935796159], [11.436345563, 51.935392402], [11.437051145, 51.935173964], [11.437532849, 51.935511041], [11.438250087, 51.935096791], [11.437984467, 51.934964574], [11.438067221, 51.934847173], [11.437729469, 51.934617292], [11.437410413, 51.934896589], [11.436494319, 51.935177232], [11.436228423, 51.935245401], [11.436085804, 51.934957074], [11.43507889, 51.935206534], [11.434559998, 51.934346878], [11.433017216, 51.934739618], [11.432839922, 51.934757056], [11.432240909, 51.935298287], [11.431604217, 51.935966996], [11.431088247, 51.936396329], [11.430702689, 51.936847754], [11.430355711, 51.93735347], [11.429222504, 51.938153614], [11.428965384, 51.938343467], [11.428544533, 51.938637235], [11.428168334, 51.938850203], [11.426851787, 51.939475071], [11.425743381, 51.939993719], [11.424795505, 51.940431926], [11.424486716, 51.94073852], [11.424185637, 51.940609756], [11.424944777, 51.940142392], [11.426320871, 51.939463984], [11.426108968, 51.939170878], [11.424256268, 51.93968833], [11.4241864, 51.9395321], [11.423894301, 51.9391261], [11.4243714, 51.9389954], [11.4240517, 51.9386344], [11.4238048, 51.9382109], [11.4232193, 51.9384007], [11.4229986, 51.9384388], [11.422062, 51.9386998], [11.4219376, 51.9385277], [11.421831152, 51.938350049], [11.422991344, 51.937882705], [11.422614999, 51.9373213], [11.421263499, 51.9375477], [11.421029299, 51.9371964], [11.4210229, 51.9369213], [11.421960201, 51.936795], [11.4227501, 51.9366532], [11.4219748, 51.9355891], [11.421754399, 51.9355809], [11.4209748, 51.9358202], [11.420976, 51.9347931], [11.421035399, 51.9347634], [11.4210311, 51.9344231], [11.421068976, 51.93354828], [11.420617796, 51.933609896], [11.419972494, 51.934286983], [11.420055182, 51.935326447], [11.420452332, 51.935750719], [11.420122199, 51.93582637], [11.419115762, 51.934844463], [11.418579066, 51.935221832], [11.419396635, 51.936089188], [11.419025687, 51.936234535], [11.417011434, 51.937724745], [11.415568519, 51.937233156], [11.415258785, 51.937513731], [11.415477406, 51.938121739], [11.416411578, 51.938256805], [11.416424568, 51.938645828], [11.417163145, 51.938826526], [11.417890648, 51.939022138], [11.418464713, 51.938574533], [11.41895665, 51.938809256], [11.418492721, 51.939242359], [11.418707024, 51.939470548], [11.419267401, 51.9397976], [11.4193004, 51.9399353], [11.4193778, 51.9404001], [11.419072899, 51.9405232], [11.419063799, 51.9407387], [11.418483001, 51.9407343], [11.418504299, 51.9410545], [11.419191199, 51.9410598], [11.4192018, 51.941261], [11.420630836, 51.941269253]], [[11.431707819, 51.949593474], [11.432474401, 51.949331142], [11.43266252, 51.94957898], [11.431940615, 51.949831166], [11.431707819, 51.949593474]], [[11.435881696, 51.945159707], [11.436036894, 51.945307554], [11.43571239, 51.94543221], [11.435559544, 51.945287261], [11.435881696, 51.945159707]], [[11.43622031, 51.943858047], [11.436281448, 51.943679754], [11.437318451, 51.943801515], [11.438117955, 51.943673955], [11.438369564, 51.944088521], [11.437539491, 51.944323343], [11.437160902, 51.943911679], [11.43622031, 51.943858047]], [[11.438679959, 51.942607084], [11.438858671, 51.942453429], [11.439488868, 51.942354858], [11.439470056, 51.941699643], [11.44026956, 51.941554683], [11.440401242, 51.941757627], [11.440147283, 51.941844602], [11.440250748, 51.942436033], [11.441022034, 51.942192505], [11.441431191, 51.942624479], [11.440043818, 51.94318401], [11.438886889, 51.943201404], [11.438679959, 51.942607084]], [[11.434602492, 51.940418178], [11.434419077, 51.939820921], [11.434024027, 51.939635364], [11.43297997, 51.93911638], [11.433680711, 51.938652479], [11.434085166, 51.938368336], [11.434212146, 51.938527804], [11.434941104, 51.938379934], [11.435157441, 51.93888153], [11.43567947, 51.938780052], [11.435900509, 51.939290341], [11.434611897, 51.939530988], [11.434748283, 51.939673055], [11.435670064, 51.939586075], [11.435641846, 51.939667257], [11.434903482, 51.939844116], [11.43571239, 51.940711004], [11.4366812, 51.940438472], [11.43693516, 51.940580537], [11.436925754, 51.940800881], [11.436495433, 51.940870463], [11.436714122, 51.94111545], [11.437080952, 51.941173435], [11.437198526, 51.941428566], [11.438059167, 51.941443062], [11.438129712, 51.941814161], [11.437706446, 51.941877943], [11.437612387, 51.941689496], [11.437377239, 51.941747479], [11.436521299, 51.941927229], [11.43655422, 51.942154815], [11.435938133, 51.942082335], [11.434602492, 51.940418178]], [[11.42164113, 51.941663402], [11.422153753, 51.941306799], [11.422741623, 51.941460458], [11.423310682, 51.941138644], [11.423804493, 51.941251713], [11.423216623, 51.941730085], [11.422304248, 51.941999709], [11.42164113, 51.941663402]], [[11.419388412, 51.94016159], [11.41938371, 51.939599122], [11.420060936, 51.939503443], [11.420060935, 51.94016159], [11.419388412, 51.94016159]], [[11.422440634, 51.938627833], [11.423160186, 51.938448071], [11.423762166, 51.938261058], [11.423919715, 51.938578544], [11.42259348, 51.938842388], [11.422440634, 51.938627833]], [[11.420994473, 51.936902658], [11.420994474, 51.935851572], [11.421716377, 51.935621055], [11.422647564, 51.936612705], [11.421855115, 51.936789577], [11.420994473, 51.936902658]], [[11.420361925, 51.935513769], [11.420249053, 51.935278901], [11.420202024, 51.934266924], [11.420714647, 51.933678285], [11.420992122, 51.933666686], [11.420855735, 51.935565962], [11.420361925, 51.935513769]], [[11.43321146, 51.93633451], [11.433069326, 51.936017492], [11.432358656, 51.936298427], [11.431928075, 51.935772639], [11.432856126, 51.934793213], [11.434499026, 51.934411747], [11.435059201, 51.93526231], [11.436079222, 51.935032916], [11.436200453, 51.935288084], [11.43740232, 51.93492853], [11.437751385, 51.934660474], [11.438025202, 51.93484734], [11.437931142, 51.9349891], [11.438129712, 51.935108952], [11.437540274, 51.935465926], [11.437057437, 51.935143747], [11.434881533, 51.935795836], [11.433303429, 51.93641312], [11.43321146, 51.93633451]]]]}, "properties": {"dgn_phase": 1}}]};
          L.imageOverlay("output_tiles/sp_472.png", bounds).addTo(map);
         const zoomFullExtentControl = L.Control.extend({
             options: { position: 'topleft' },
